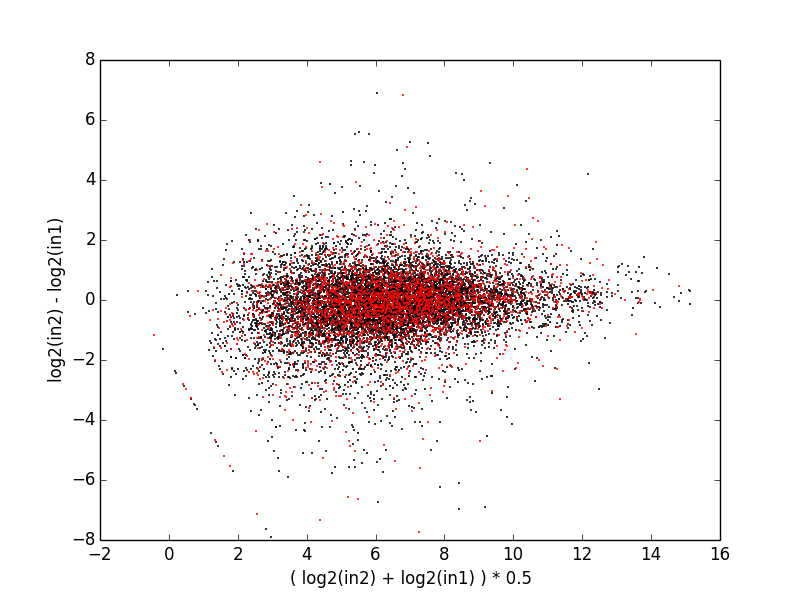
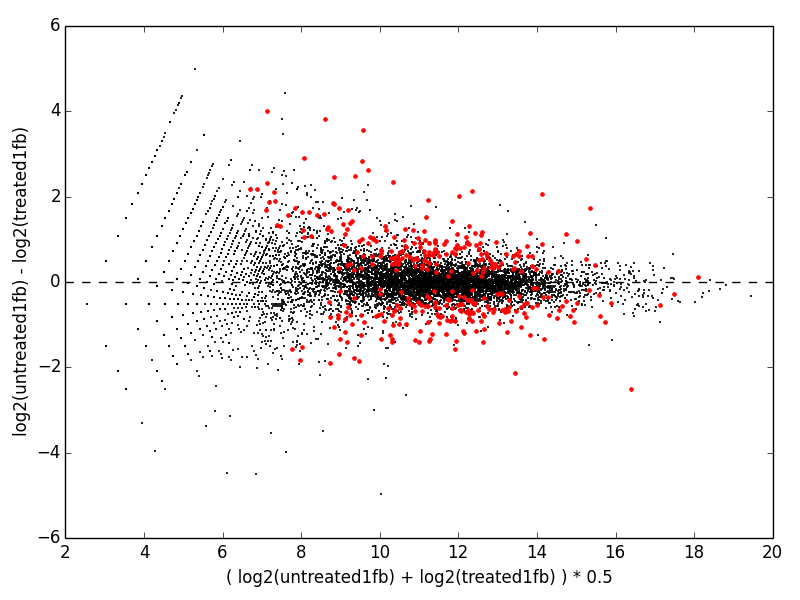
Updates gh-pages

diff --git a/css/syntax.css b/css/syntax.css
@@ -58,3 +58,7 @@
 .highlight .vg { color: #008080 } /* Name.Variable.Global */
 .highlight .vi { color: #008080 } /* Name.Variable.Instance */
 .highlight .il { color: #009999 } /* Literal.Number.Integer.Long */
+
+
+.highlight .lineno { color: #ccc; display:inline-block; padding: 0 5px; border-right:1px solid #ccc; }
+.highlight pre code { display: block; white-space: pre; overflow-x: auto; word-wrap: normal; }

diff --git a/docs/tutorial/clustering/index.md b/docs/tutorial/clustering/index.md
@@ -9,7 +9,7 @@ Clustering the data
 Next, we need to cluster the data. For this purpose, we shall use the program `clust`, which comes with **DGEclust**. 
 From your terminal, do the following:
 
-{% highlight bash %}
+{% highlight bash linenos %}
 $ cd path/to/dgeclust
 $ bin/clust path/to/data_filt.txt -g treated treated treated untreated untreated untreated untreated &
 {% endhighlight %}
@@ -19,7 +19,7 @@ instructs the simulator that the first three samples and the last four form two 
 Depending on the size of your data, this will take some time to finish. The output from the sampler is saved periodically in the directory 
 `_clust`, which you can inspect to check the progress of your simulation, e.g. using `tail`:
 
-{% highlight bash %}
+{% highlight bash linenos %}
 $ tail -f _clust/pars.txt
 0       100     100     1.000000        0.000001        0.500000        0.500000        0.500000        0.500000        0.000000        1.000000        0.000000        1.000000        0.000000        1.000000
 1       100     25      1.000000        0.013232        0.592728        0.407272        0.789091        0.210909        1.019620        0.856941        -0.624808       1.008012        -0.215131       0.877321
@@ -42,25 +42,26 @@ There are more arguments that you can pass to `clust`. Type `bin/clust -h` for m
 
 After the end of the simulation, you can visualize your results using **IPython**:
 
-{% highlight python %}
+{% highlight python linenos %}
 cd path/to/dgeclust
 from dgeclust.gibbs.results import GibbsOutput
 res = GibbsOutput.load('_clust')
 figure()
-subplot(2,2,1); plot(res.nclust.active); xlabel('# of iterations'); ylabel('# of active clusters')
+subplot(2,2,1); plot(res.nclust.active); xlim([0, 500]); xlabel('# of iterations'); ylabel('# of clusters')
 subplot(2,2,2); hist(res.nclust.active, 100, range=(0,100), normed=True); xlabel('# of clusters'); ylabel('frequency')
-subplot(2,2,3); plot(res.hpars[:,:4]); xlabel('# iterations'); ylabel('p1 to p4')
-subplot(2,2,4); plot(res.hpars[:,4:]); xlabel('# iterations'); ylabel('p5, p6')
+subplot(2,2,3); plot(res.hpars.iloc[:,:4]); xlabel('# of terations'); ylabel('p1 to p4')
+subplot(2,2,4); plot(res.hpars.iloc[:,4:]); xlabel('# of iterations'); ylabel('p5, p6')
 {% endhighlight %}
 
 <img class="img-responsive" alt="Simulation progress" title="Simulation progress" src="{{ site.baseurl }}/img/progress.png"></img>
 
-It seems that the algorithm converges rapidly after ~1000 iterations. From the histogram on the top right, we can see that the data
-support between 20 and 23 clusters with a peak at 21. If you need to extend the simulation for another 10K iterations (i.e. a total
-of 20K iterations), you
-can type:
+The algorithm converges rapidly after ~500 iterations. From the histogram on the top right, we can see that the data
+supports around 70 clusters. The bottom panels indicate the progress of additional model parameters. Their exact meaning
+is not important at the moment. What is important, however, is that they also reach a stable equilibrium quite rapidly 
+during the course of the simulation. If you need to extend the simulation for another 10K iterations (i.e. a total
+of 20K iterations), you can type:
 
-{% highlight bash %}
+{% highlight bash linenos %}
 bin/clust /path/to/data_filt.txt -g treated treated treated untreated untreated untreated untreated -t 20000 -e & 
 {% endhighlight %}
  
@@ -70,24 +71,18 @@ be extended and the argument `-t` indicates the total duration of the simulation
 If you wish, you can see how the fitted model at the end of the simulation compares
 to the actual data:
 
-{% highlight python %}
+{% highlight python linenos %}
 from dgeclust import utils
 from dgeclust.data import CountData
 from dgeclust.models import nbinom
-data = CountData.load('path/to/data_filt.txt', groups=[[0,1,2,3],[4,5]])    
-counts_norm = data.counts / data.norm_factors
-isample = 0  # the index of the sample you want to visualise (between 0 and 5)
-igroup = 0   # the group the above sample belongs to (0: cancerous, 1: non-cancerous)
-x, y = utils.compute_fitted_model(igroup, res, nbinom); 
+data = CountData.load('path/to/data_filt.txt', groups=['treated', 'treated', 'treated', 'untreated', 'untreated', 'untreated', 'untreated'])    
 figure()
-hist(log(counts_norm[:,isample]), 100, histtype='stepfilled', linewidth=0, normed=True, color='gray')
-plot(x, y, 'k', x, y.sum(1), 'r');
+x, y = utils.compute_fitted_model('treated1fb', res.state, data, nbinom);    # you can change 'treated1fb' to any other sample 
 xlabel('log counts'); ylabel('frequency')
 {% endhighlight %}
 
 <img class="img-responsive" alt="Fitted model" title="Fitted model" src="{{ site.baseurl }}/img/fitted.png"></img>
 
-Of course, you can repeat the above for all possible values of `isample` and corresponding values of `igroup`.
 The next step is to post-process your data in order to test for differential expression. 
 <a href="{{ site.baseurl }}{{ site.data.nav.docs.tut.detest.url }}">Learn how!</a>
 

diff --git a/docs/tutorial/detest/index.md b/docs/tutorial/detest/index.md
@@ -12,46 +12,39 @@ we use another program that comes with **DGEclust**, `pvals`, which computes the
 posterior probability that any two features between any two groups of samples in 
 our dataset are differentially expressed. In a terminal, we type: 
 
-{% highlight bash %}
-$ bin/pvals -t0 1000
-9001 samples processed from directory "clust/zz"
+{% highlight bash linenos %}
+$ bin/pvals treated untreated -t0 1000
+9001 samples processed from directory "clust/cc"
 {% endhighlight %}
 
 The above command post-processes the contents of the directory `_clust` and returns 
-a file, `_pvals.txt`, which includes a list of features with decreasing posterior 
-probabilities of being differentially expressed between the cancerous and non-cancerous 
+a file, `_pvals.txt`, which includes a list of features along with their posterior 
+probabilities of being differentially expressed between the treated and untreated 
 samples in the data:
 
-{% highlight bash %}
+{% highlight bash linenos %}
 $ head _pvals.txt
-        	Posteriors      FDR
-SLC4A4  	0.0     		0.0
-MYL9    	0.0     		0.0
-IGF2    	0.0     		0.0
-CD74    	0.0     		0.0
-MT2A    	0.0     		0.0
-TYRO3   	0.0     		0.0
-HMGA2   	0.0     		0.0
-RGAG4   	0.0     		0.0
-C22orf16	0.0     		0.0
+                Posteriors              FDR                                           
+FBgn0000008     0.6344850572158649      0.41553854746732966   
+FBgn0000017     0.1879791134318409      0.06813443720197582   
+FBgn0000018     0.6990334407288079      0.45908014854398776   
+FBgn0000024     0.4831685368292412      0.26083987371505857   
+FBgn0000032     0.7033662926341517      0.46239982277180447   
+FBgn0000037     0.4733918453505166      0.24896779084981993   
+FBgn0000042     0.40939895567159207     0.19157589997351965   
+FBgn0000043     0.16709254527274747     0.059146915319410236  
+FBgn0000045     0.5090545494945006      0.29378201476431676   
 {% endhighlight %}
-
-Notice that for the top-most features in this particular example, the probability is so low, that it is reported 
-as being 0. 
 
 Back in **IPython**, we can visualise our results using an **RA diagram**:
 
-{% highlight python %}
-pvals = pd.read_table('_pvals.txt',index_col=0)
-idxs = (pvals.FDR < 0.01).values    # Use a False Discovery Rate of 1%
-in1 = mean(counts_norm[:,[0,1,2,3]],1)
-in2 = mean(counts_norm[:,[4,5]],1)
-R, A = utils.compute_ra_plot(in1, in2)
+{% highlight python linenos %}
+pvals = pd.read_table('_pvals.txt', index_col=0)
+norm_factors = data.lib_sizes.astype('float') / sum(data.lib_sizes.values)    # a quick way to generate normalisation factors for visualisation purposes only
 figure()
-plot(A[~idxs], R[~idxs], 'k.', markersize=1.8)
-plot(A[idxs], R[idxs], 'r.', markersize=1.8)
-xlabel('( log2(in2) + log2(in1) ) * 0.5')
-ylabel('log2(in2) - log2(in1)')
+utils.plot_ra(data.counts['treated1fb']/norm_factors['treated1fb'], data.counts['untreated1fb']/norm_factors['untreated1fb'], pvals.FDR < 0.01)     # use an FDR of 1%
+xlabel('( log2(untreated1fb) + log2(treated1fb) ) * 0.5')
+ylabel('log2(untreated1fb) - log2(treated1fb)')
 {% endhighlight %}
 
 <img class="img-responsive" alt="RA plot" title="RA plot" src="{{ site.baseurl }}/img/RA_plot.png"></img>

diff --git a/docs/tutorial/data/index.md b/docs/tutorial/data/index.md
@@ -12,7 +12,7 @@ have a matrix of count data stored in the file `data.txt`. In this tutorial, we
 shall use the *pasilla* RNA-seq dataset, which is available through 
 <a href="http://www.bioconductor.org/packages/release/data/experiment/html/pasilla.html" target="_blank">Bioconductor</a>. 
 You can inspect the data using the `head` command at the terminal:
-{% highlight bash %}
+{% highlight bash linenos %}
 $ head /path/to/data.txt
 treated1fb      treated2fb      treated3fb      untreated1fb    untreated2fb    untreated3fb    untreated4fb
 FBgn0000003     0       0       1       0       0       0       0
@@ -33,7 +33,7 @@ classes, *treated* and *untreated*.
 Let's use **IPython** to filter the data. Execute `ipython --pylab` at the terminal and, at the subsequent
 **IPython** command prompt, type the following:
 
-{% highlight python %}
+{% highlight python linenos %}
 import pandas as pd
 data = pd.read_table('/path/to/data.txt')
 row_sums = sum(data, 1)
